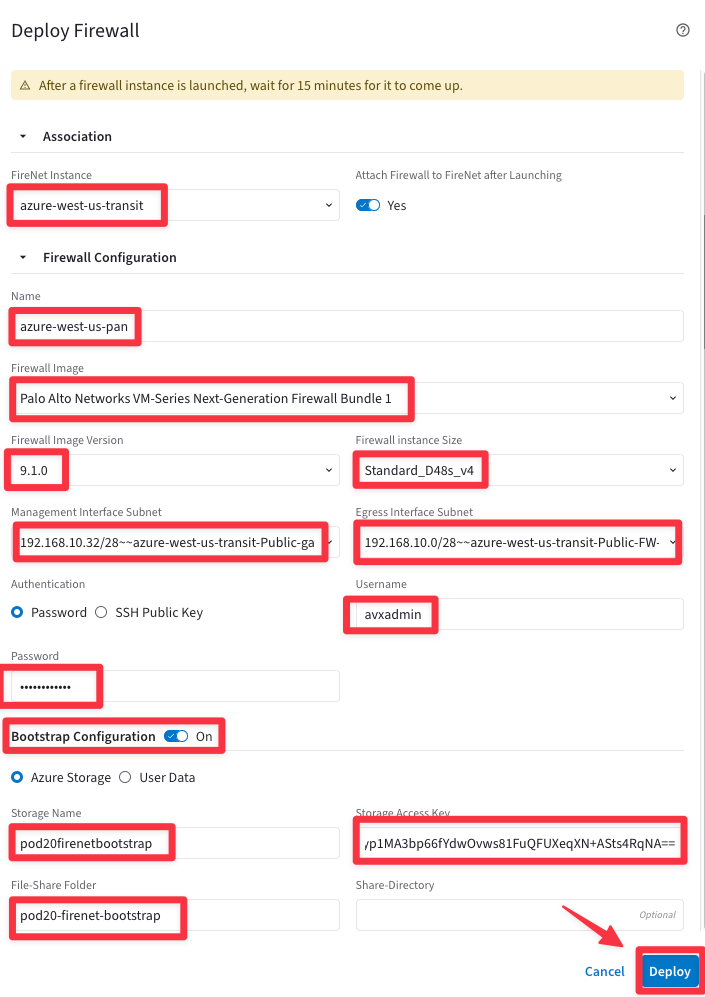
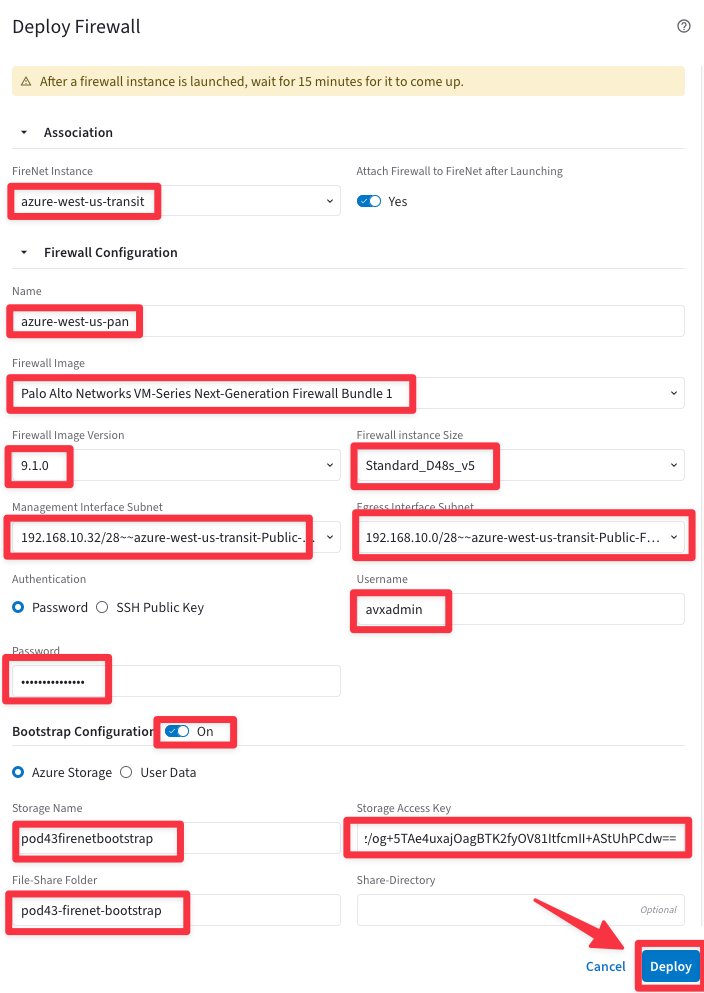
update for pro

diff --git a/ace_pro/docs/lab9.md b/ace_pro/docs/lab9.md
@@ -1,13 +1,13 @@
 # Lab 9 - THREAT PREVENTION
 
-This lab will demonstrate how the `Default ThreatGroup` is capable to prevent traffic from being sent to, or from, a set of **threat IPs**.
+This lab will demonstrate how the `Default Threat Group` is capable to prevent traffic from being sent to, or from, a set of **threat IPs**.
 
 ## 1. ThreatGroup Overview
 
-The **Default ThreatGroup** can be used in DCF rules to ensure that traffic meeting the ThreatGroup criteria is blocked.
+The **Default Threat Group** can be used in DCF rules to ensure that traffic meeting the **_Threat Group_** criteria is blocked.
 
 ```{important}
-The Default ThreatGroup is regularly updated with data from the **`Proofpoint Global Threat Database`**.
+The Default Threat Group is regularly updated with data from the **`Proofpoint Global Threat Database`**.
 ```
 
 ## 2. Topology

diff --git a/ace_pro/docs/lab6.md b/ace_pro/docs/lab6.md
@@ -152,7 +152,7 @@ Marketplace contact under loading
 ```
 
 - **Firewall Image Version**: <span style='color:#479608'>9.1.0</span>
-- **Firewall instance Size**: <span style='color:#479608'>Standard_D48s_v4</span>
+- **Firewall instance Size**: <span style='color:#479608'>Standard_D48s_v5</span>
 - **Management Interface Subnet**: <span style='color:#479608'>azure-west-us-transit-Public-gateway-and-firewall-mgmt-**1** [**Note**: Make sure you do not select the subnets that begin with *az-1, az-2, or az-3*]</span>
 
 ```{caution}
